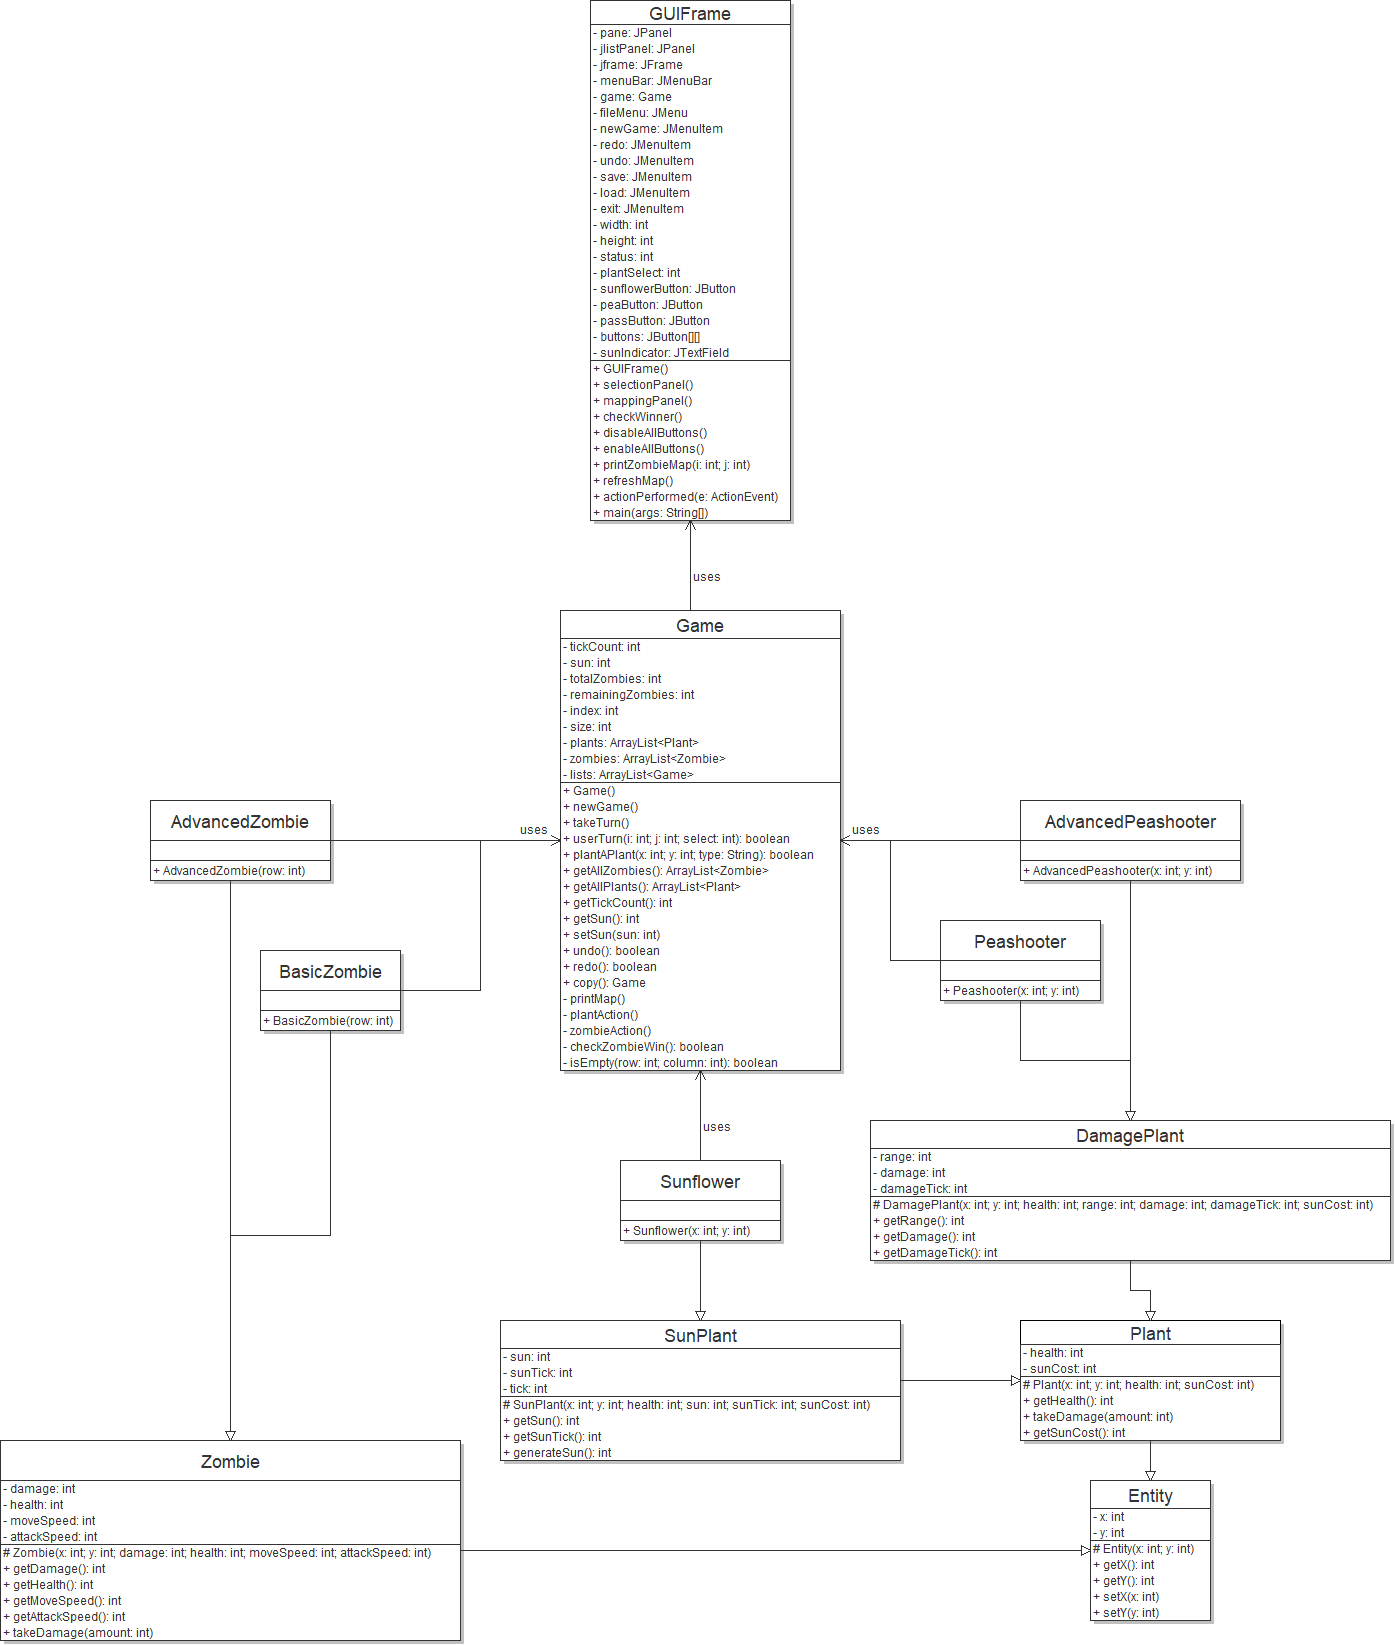
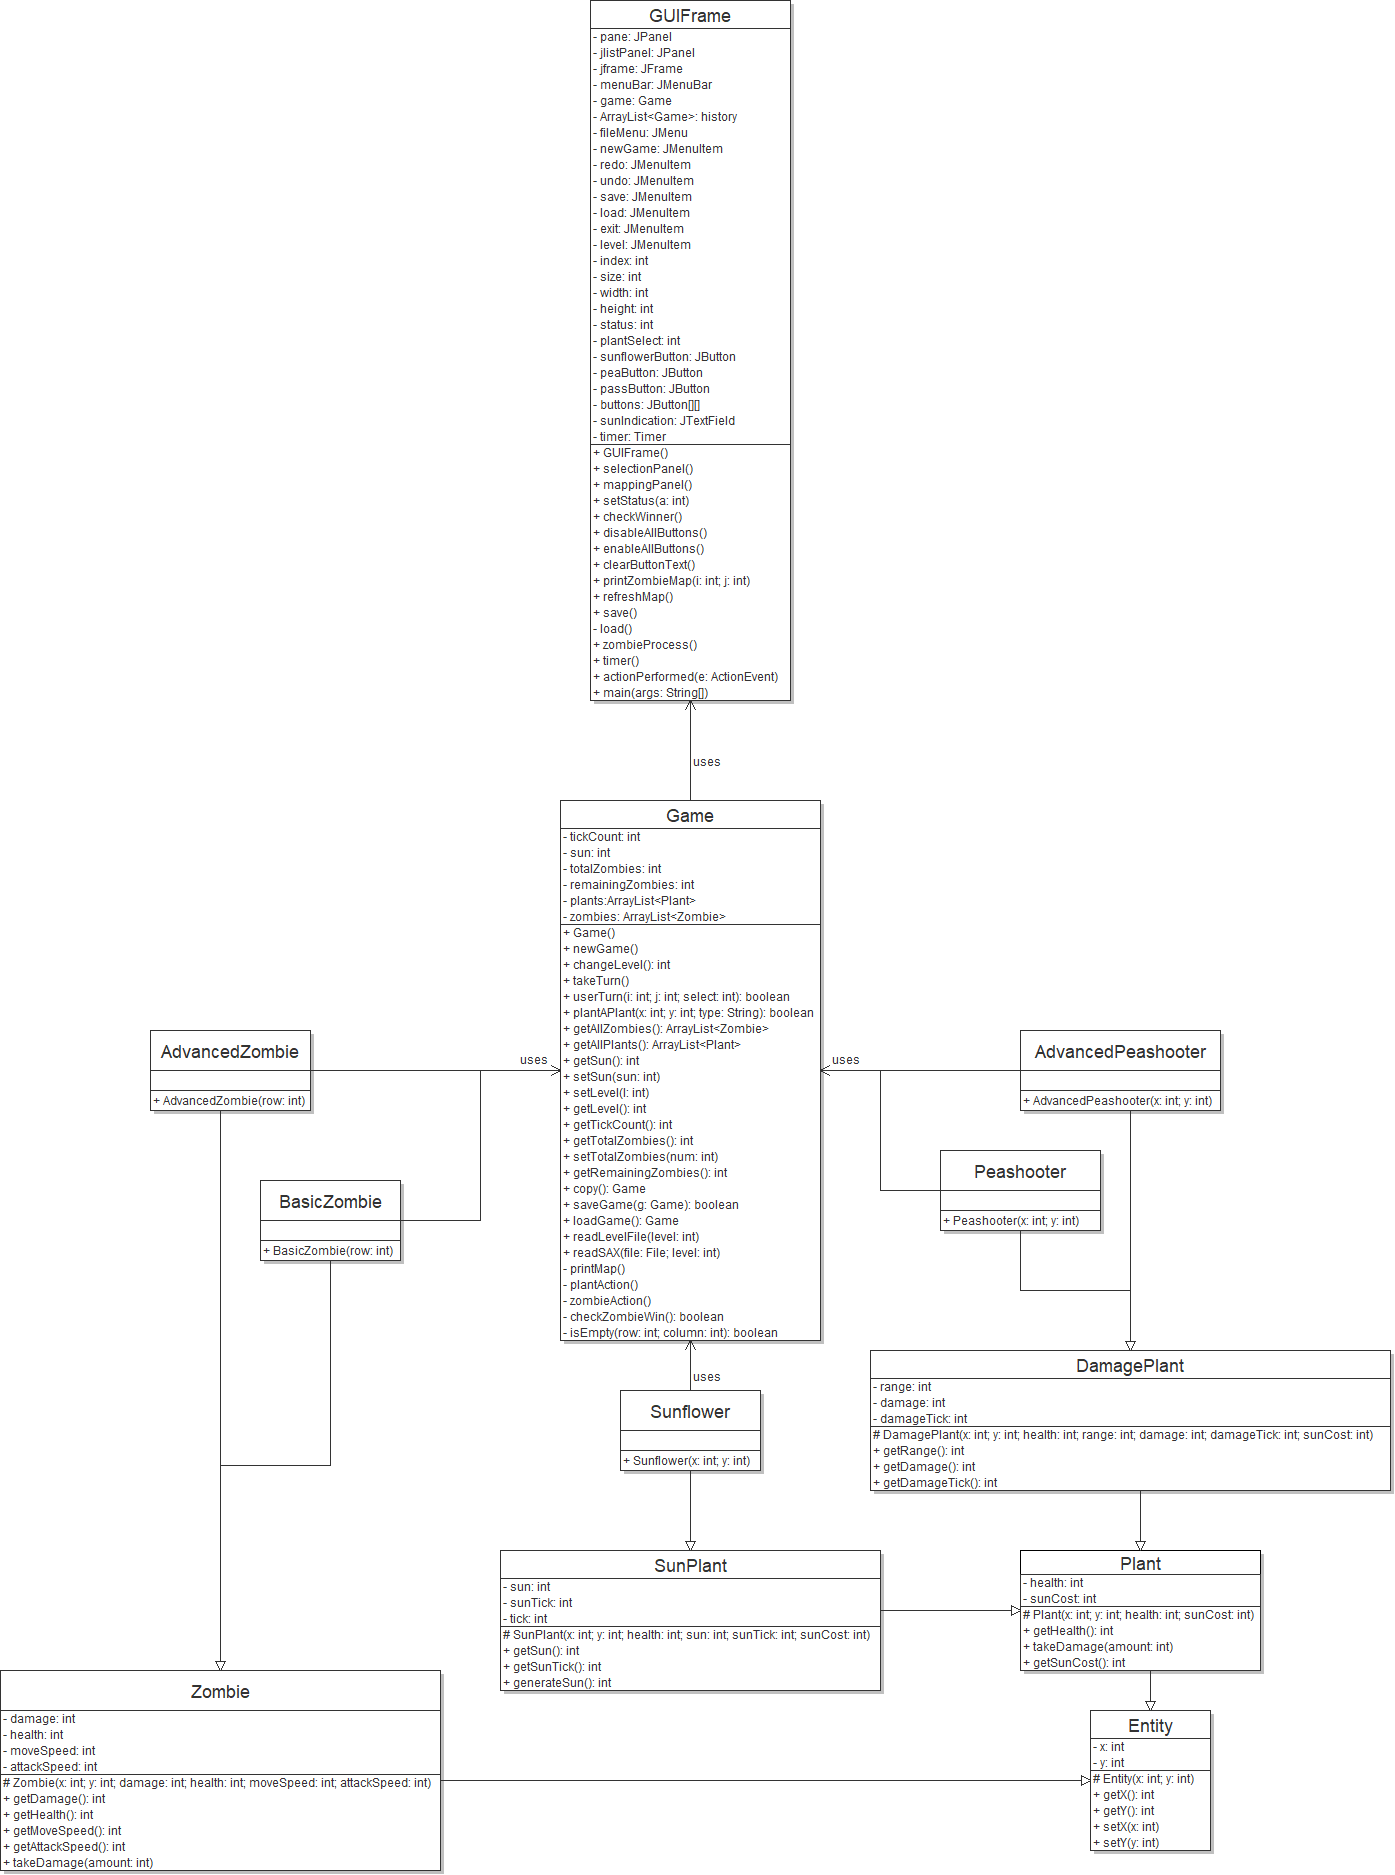
added packages, updated UML

Changed region(s): [[0.0, 0.0, 1.0, 1.0], [0.6781, 0.496, 0.8939, 0.6821], [0.0925, 0.496, 0.3082, 0.6821]]

diff --git a/src/mvc/Game.java b/src/mvc/Game.java
@@ -1,3 +1,4 @@
+package mvc;
 import java.io.ByteArrayInputStream;
 import java.io.ByteArrayOutputStream;
 import java.io.File;
@@ -16,6 +17,16 @@ import javax.xml.parsers.SAXParserFactory;
 import org.xml.sax.Attributes;
 import org.xml.sax.SAXException;
 import org.xml.sax.helpers.DefaultHandler;
+
+import entities.AdvancedPeashooter;
+import entities.AdvancedZombie;
+import entities.BasicZombie;
+import entities.DamagePlant;
+import entities.Peashooter;
+import entities.Plant;
+import entities.SunPlant;
+import entities.Sunflower;
+import entities.Zombie;
 
 /**
  * This class represents the model portion of an MVC representation of a Plants vs. Zombies game.
@@ -323,9 +334,13 @@ public class Game implements Serializable{
 		level = l;
 	}
 	
+	/**
+	 * @return the current level
+	 */
 	public int getlevel() {
 		return level;
 	}
+	
 	/**
 	 * @return The current turn number
 	 */
@@ -352,20 +367,6 @@ public class Game implements Serializable{
 	 */
 	public int getRemainingZombies() {
 		return remainingZombies;
-	}
-
-	/**
-	 * @return All the plants on the map as an ArrayList
-	 */
-	public ArrayList<Plant> getPlants() {
-		return plants;
-	}
-
-	/**
-	 * @return All the zombies on the map as an ArrayList
-	 */
-	public ArrayList<Zombie> getZombies() {
-		return zombies;
 	}
 	
 	/**

diff --git a/src/entities/DamagePlant.java b/src/entities/DamagePlant.java
@@ -1,3 +1,4 @@
+package entities;
 import java.io.Serializable;
 
 /**
@@ -21,7 +22,7 @@ public class DamagePlant extends Plant implements Serializable {
 	 * @param damageTick How many ticks that this plant must wait between attacks
 	 * @param sunCost    The sun required to plant this plant
 	 */
-	protected DamagePlant(int x, int y, int health, int range, int damage, int damageTick, int sunCost) {
+	public DamagePlant(int x, int y, int health, int range, int damage, int damageTick, int sunCost) {
 		super(x, y, health, sunCost);
 		this.range = range;
 		this.damage = damage;

diff --git a/src/mvc/GUIFrame.java b/src/mvc/GUIFrame.java
@@ -1,3 +1,4 @@
+package mvc;
 import java.awt.*;
 import java.awt.event.*;
 import java.util.ArrayList;
@@ -5,6 +6,14 @@ import java.util.Timer;
 import java.util.TimerTask;
 
 import javax.swing.*;
+
+import entities.AdvancedPeashooter;
+import entities.AdvancedZombie;
+import entities.BasicZombie;
+import entities.Peashooter;
+import entities.Plant;
+import entities.Sunflower;
+import entities.Zombie;
 
 /**
  * The view part of the MVC implementation of PvZ. Contains a grid that represents the yard,

diff --git a/src/entities/SunPlant.java b/src/entities/SunPlant.java
@@ -1,3 +1,4 @@
+package entities;
 import java.io.Serializable;
 
 /**
@@ -20,7 +21,7 @@ public class SunPlant extends Plant implements Serializable
 	 * @param sun How much sun this SunPlant generates
 	 * @param sunTick How many ticks between sun generation
 	 */
-	protected SunPlant(int x, int y, int health, int sun, int sunTick, int sunCost)
+	public SunPlant(int x, int y, int health, int sun, int sunTick, int sunCost)
 	{
 		super(x, y, health, sunCost);
 		this.sun = sun;

diff --git a/src/entities/Zombie.java b/src/entities/Zombie.java
@@ -1,3 +1,4 @@
+package entities;
 import java.io.Serializable;
 
 /**
@@ -19,7 +20,7 @@ public class Zombie extends Entity implements Serializable
 	 * @param moveSpeed Ticks required to move 1 space forward
 	 * @param attackSpeed Ticks between attacks
 	 */
-	protected Zombie(int x, int y, int damage, int health, int moveSpeed, int attackSpeed)
+	public Zombie(int x, int y, int damage, int health, int moveSpeed, int attackSpeed)
 	{
 		super(x, y);
 		this.damage = damage;

diff --git a/src/entities/Plant.java b/src/entities/Plant.java
@@ -1,3 +1,4 @@
+package entities;
 import java.io.Serializable;
 
 /**
@@ -19,7 +20,7 @@ public class Plant extends Entity implements Serializable
 	 * @param health The plant's health
 	 * @param sunCost How much sun this plant requires in order to be planted
 	 */
-	protected Plant(int x, int y, int health, int sunCost)
+	public Plant(int x, int y, int health, int sunCost)
 	{
 		super (x, y);
 		this.health = health;

diff --git a/src/entities/Entity.java b/src/entities/Entity.java
@@ -1,3 +1,4 @@
+package entities;
 import java.io.Serializable;
 
 /**
@@ -17,7 +18,7 @@ public class Entity implements Serializable
 	 * @param x Column number
 	 * @param y Row number
 	 */
-	protected Entity(int x, int y)
+	public Entity(int x, int y)
 	{
 		this.x = x;
 		this.y = y;

diff --git a/src/tests/AdvancedZombieTest.java b/src/tests/AdvancedZombieTest.java
@@ -1,7 +1,10 @@
+package tests;
 import static org.junit.Assert.*;
 
 import org.junit.Before;
 import org.junit.Test;
+
+import entities.AdvancedZombie;
 
 public class AdvancedZombieTest {
 	AdvancedZombie a;

diff --git a/src/tests/AdvancedPeashooterTest.java b/src/tests/AdvancedPeashooterTest.java
@@ -1,7 +1,10 @@
+package tests;
 import static org.junit.Assert.*;
 
 import org.junit.Before;
 import org.junit.Test;
+
+import entities.AdvancedPeashooter;
 
 public class AdvancedPeashooterTest {
 

diff --git a/src/tests/GameTest.java b/src/tests/GameTest.java
@@ -1,9 +1,12 @@
+package tests;
 import static org.junit.Assert.*;
 
 import java.io.File;
 
 import org.junit.Before;
 import org.junit.Test;
+
+import mvc.Game;
 
 public class GameTest {
 

diff --git a/src/tests/DamagePlantTest.java b/src/tests/DamagePlantTest.java
@@ -1,7 +1,10 @@
+package tests;
 import static org.junit.Assert.*;
 
 import org.junit.Before;
 import org.junit.Test;
+
+import entities.DamagePlant;
 
 public class DamagePlantTest {
 

diff --git a/src/tests/SunPlantTest.java b/src/tests/SunPlantTest.java
@@ -1,7 +1,10 @@
+package tests;
 import static org.junit.Assert.*;
 
 import org.junit.Before;
 import org.junit.Test;
+
+import entities.SunPlant;
 
 public class SunPlantTest {
 
